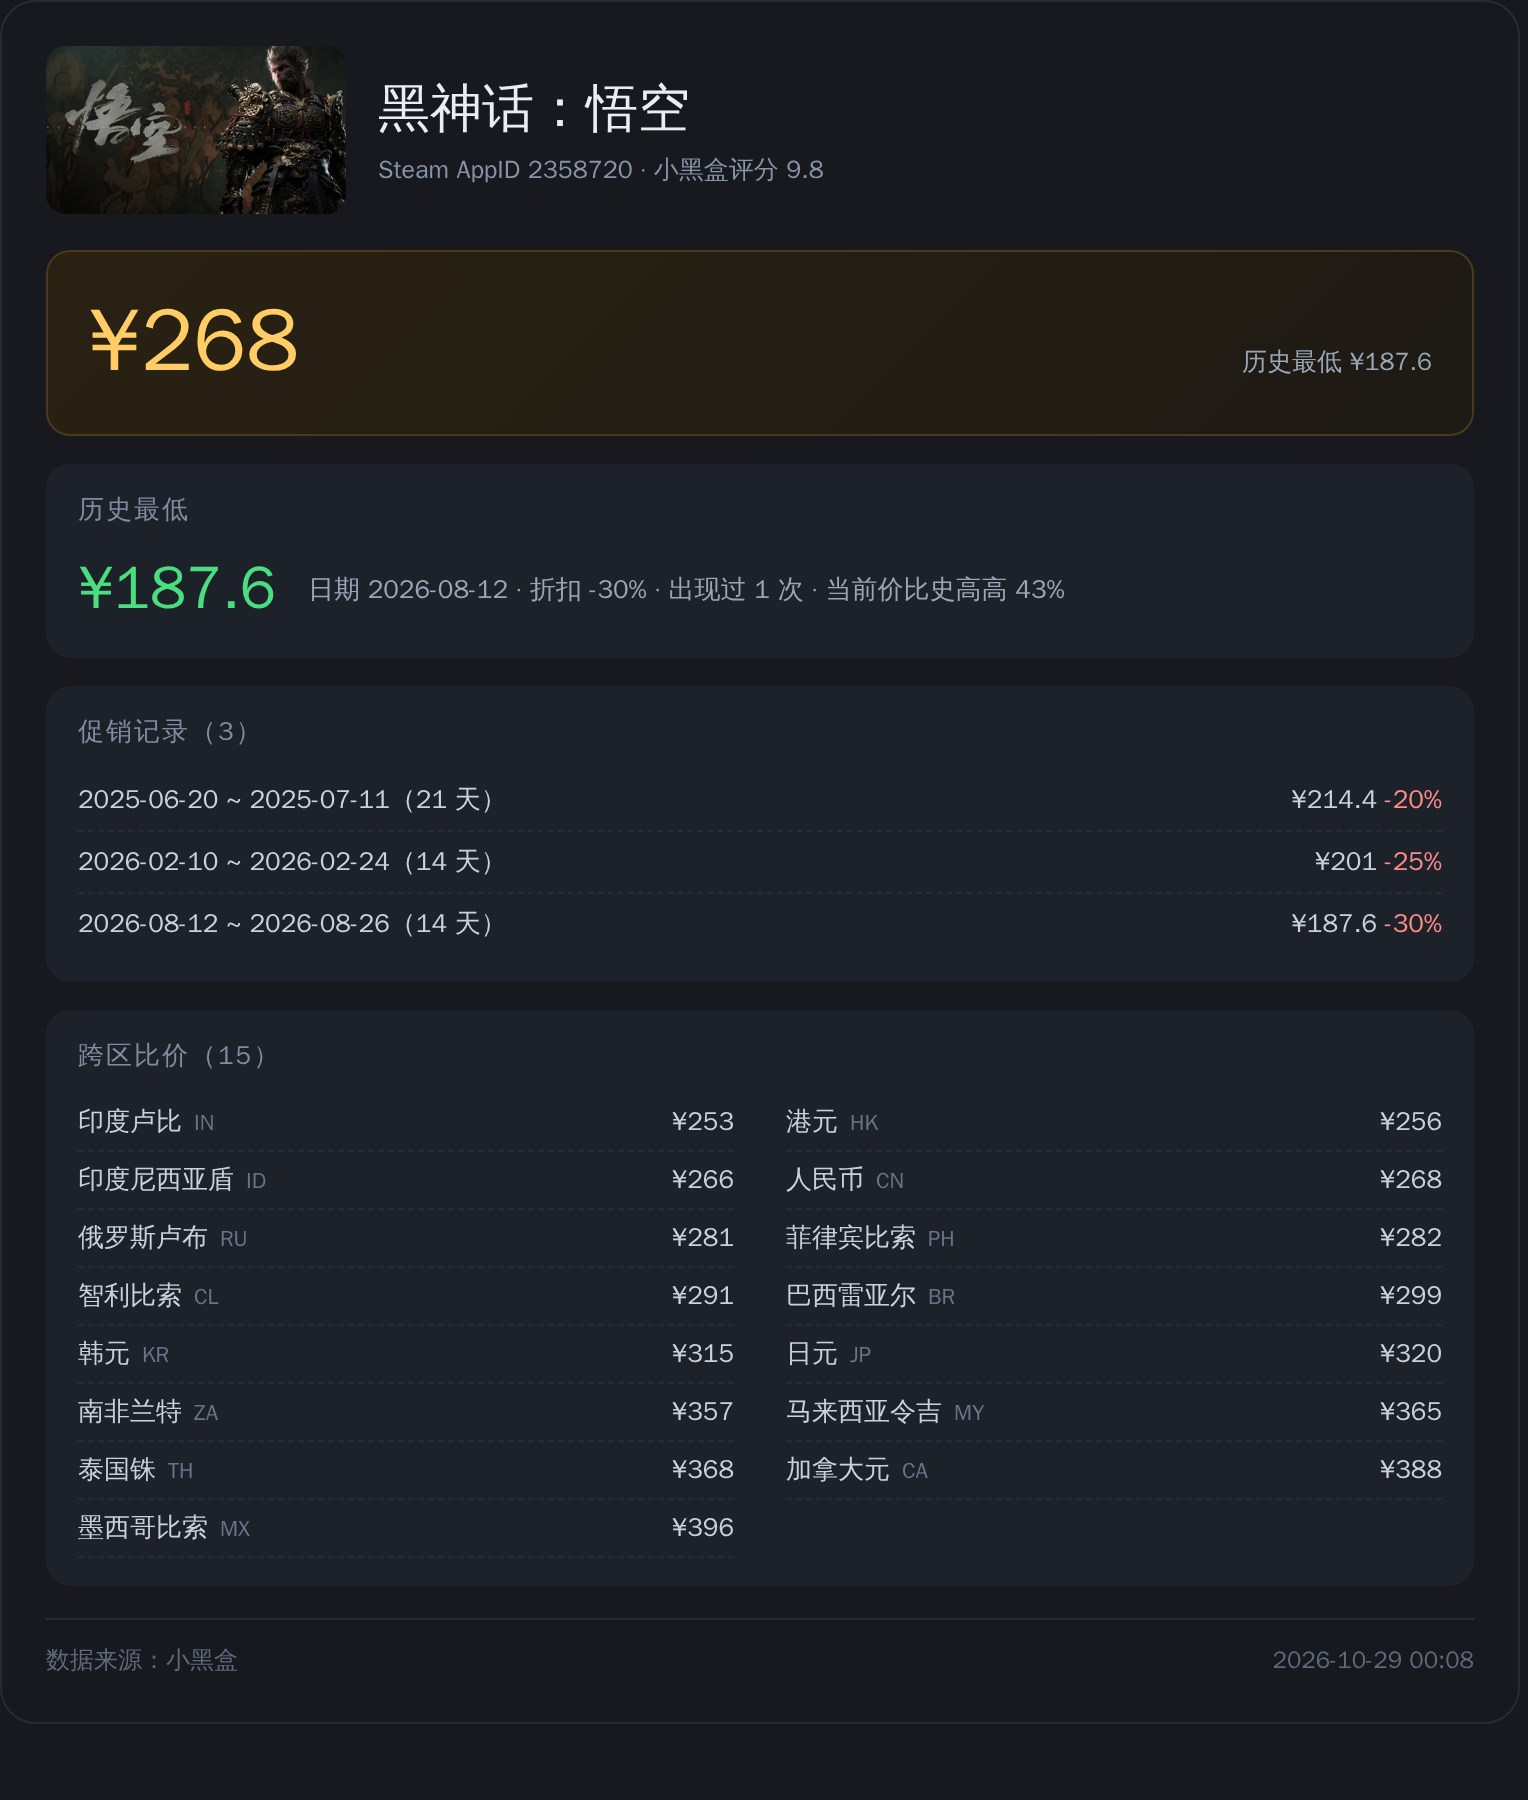
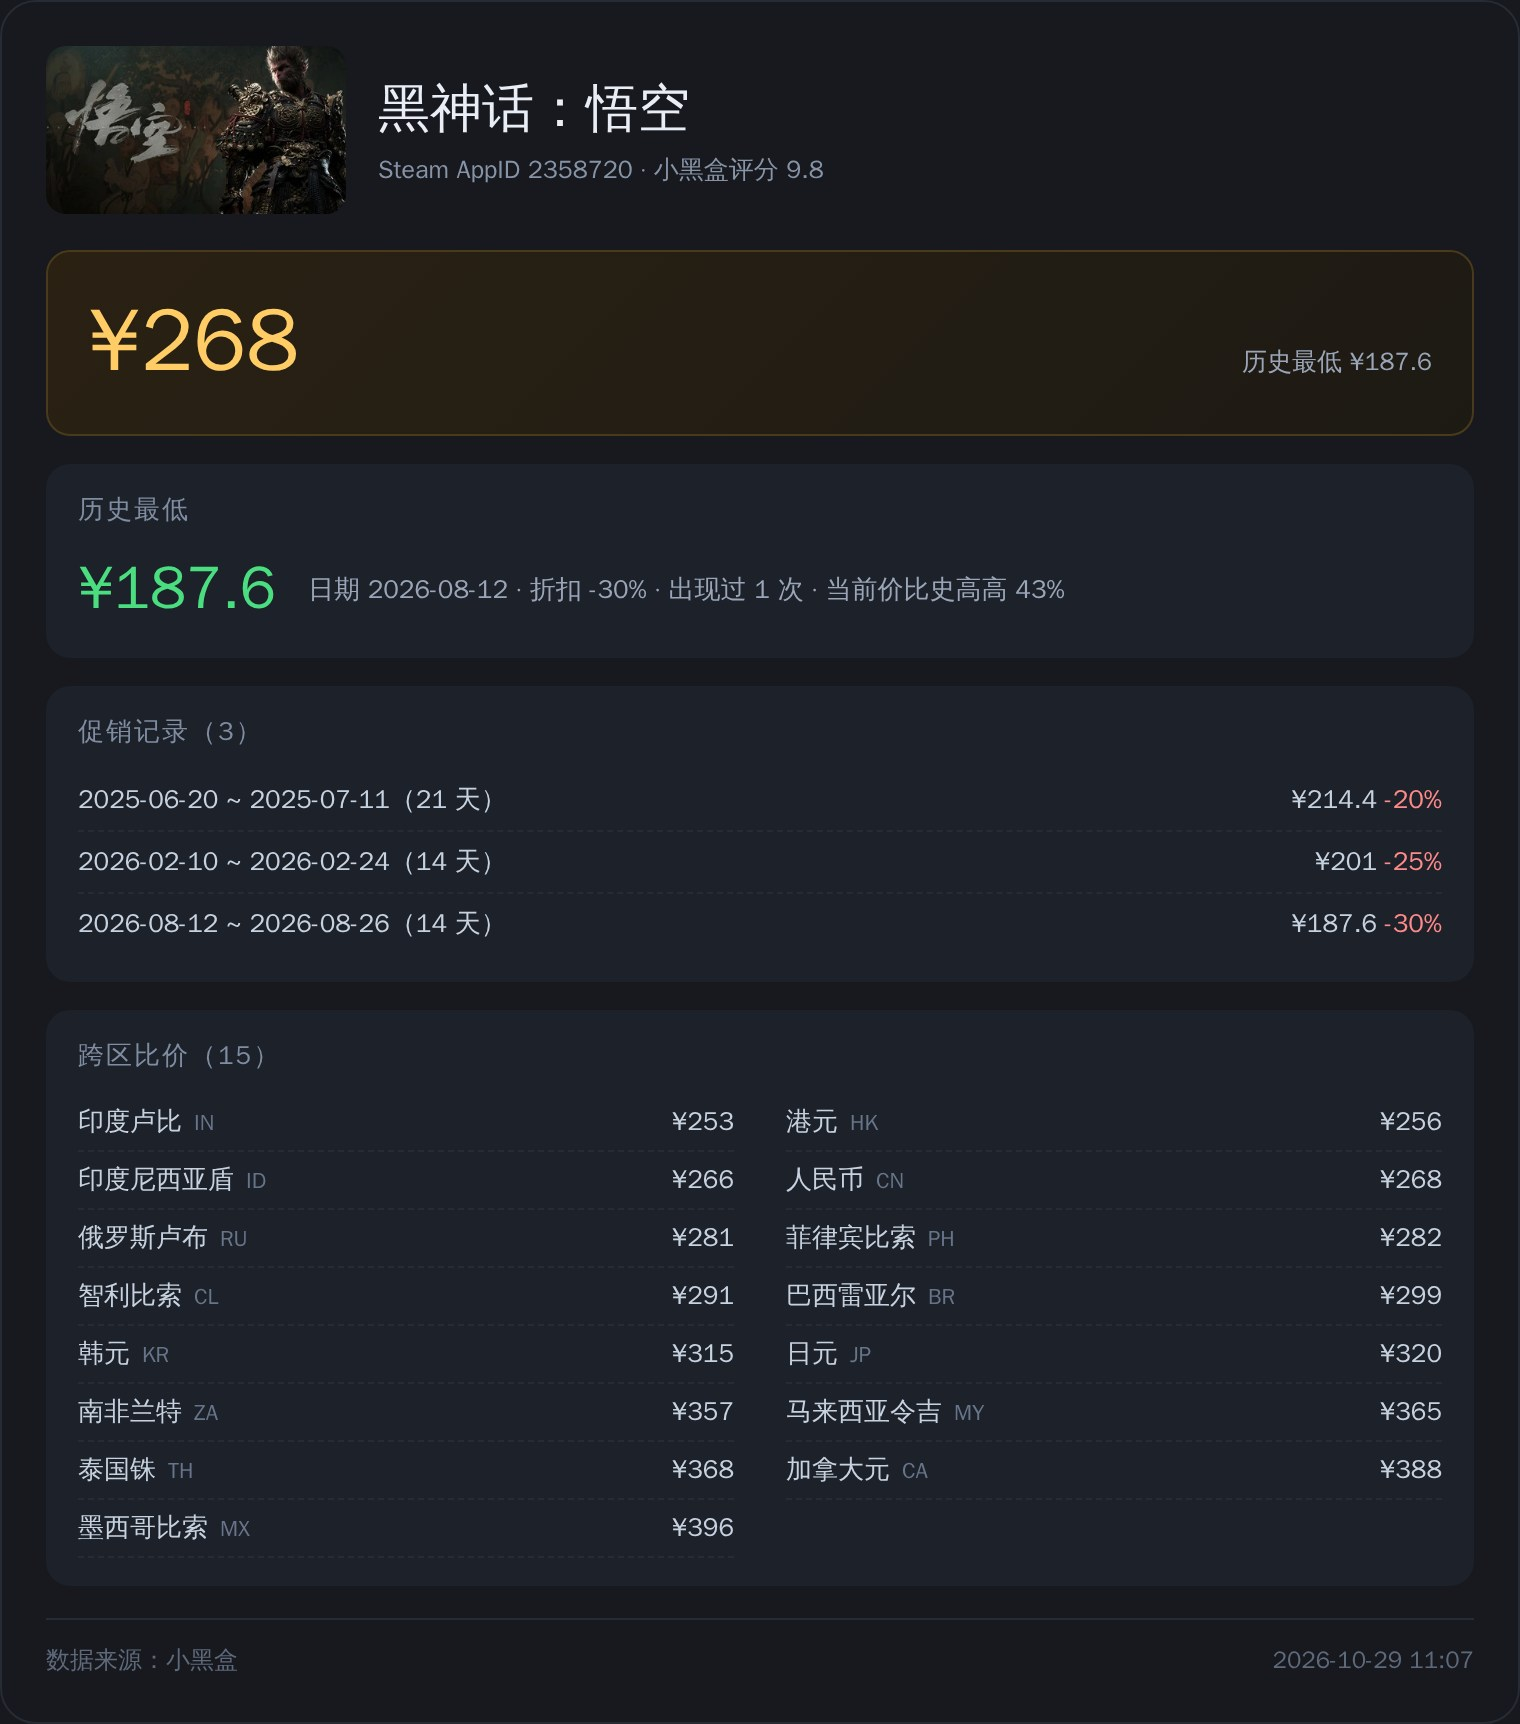
feat: ??/??????????????????

diff --git a/core/card.py b/core/card.py
@@ -262,61 +262,96 @@ def build_card(
 CSS = """
 * { margin:0; padding:0; box-sizing:border-box; }
 body { background:transparent; font-family:'WenQuanYi Zen Hei','Noto Sans CJK SC',sans-serif; }
-#card { width:760px; background:#17191e; color:#e9eef6; border-radius:18px; overflow:hidden;
-        border:1px solid #262b34; }
-.cover { width:100%; aspect-ratio:16/9; object-fit:cover; display:block; background:#0f1116; }
+#card { width:760px; background:$card_bg; color:$text; border-radius:18px; overflow:hidden;
+        border:1px solid $border; }
+.cover { width:100%; aspect-ratio:16/9; object-fit:cover; display:block; background:$img_bg; }
 .body { padding:20px 22px 18px; }
 .pricebar { display:flex; align-items:center; justify-content:space-between;
-            background:#22262e; border-radius:10px; padding:14px 18px; margin-bottom:16px; }
-.price-now { font-size:34px; font-weight:700; color:#fff; }
-.price-old { font-size:15px; color:#8a95a6; text-decoration:line-through; margin-left:12px; }
-.badge { font-size:14px; font-weight:700; color:#fff; background:#e5484d; padding:2px 8px;
+            background:$panel2; border-radius:10px; padding:14px 18px; margin-bottom:16px; }
+.price-now { font-size:34px; font-weight:700; color:$price_text; }
+.price-old { font-size:15px; color:$dim2; text-decoration:line-through; margin-left:12px; }
+.badge { font-size:14px; font-weight:700; color:$white; background:$red; padding:2px 8px;
          border-radius:6px; margin-left:10px; }
-.trend { font-size:13px; color:#9aa6b8; }
+.trend { font-size:13px; color:$muted2; }
 .title-row { display:flex; align-items:flex-start; justify-content:space-between; gap:16px; }
 .title { font-size:32px; font-weight:700; line-height:1.2; }
-.title-en { font-size:14px; color:#8794a8; margin-top:6px; }
-.scorebox { background:#f08a24; border-radius:10px; padding:8px 14px; text-align:center; flex:none; }
-.scorebox .s { font-size:26px; font-weight:700; color:#fff; line-height:1; }
-.scorebox .c { font-size:11px; color:#fff9; margin-top:4px; }
+.title-en { font-size:14px; color:$dim; margin-top:6px; }
+.scorebox { background:$orange; border-radius:10px; padding:8px 14px; text-align:center; flex:none; }
+.scorebox .s { font-size:26px; font-weight:700; color:$white; line-height:1; }
+.scorebox .c { font-size:11px; color:rgba(255,255,255,0.62); margin-top:4px; }
 .chips { display:flex; flex-wrap:wrap; gap:8px; margin-top:14px; }
-.chip { font-size:13px; color:#c8d3e2; background:#22262e; border:1px solid #2e3540;
+.chip { font-size:13px; color:$text3; background:$panel2; border:1px solid $chip_border;
         padding:5px 12px; border-radius:7px; }
-.chip.plat { color:#fff; background:#2a3340; }
+.chip.plat { color:$chip_plat_text; background:$chip_plat_bg; }
 .grid { display:grid; grid-template-columns:repeat(4,1fr); gap:10px; margin-top:16px; }
-.cell { background:#1d2129; border-radius:10px; padding:12px 10px; text-align:center; }
-.cell .v { font-size:19px; font-weight:700; color:#e9eef6; }
-.cell .l { font-size:12px; color:#7f8da2; margin-top:5px; }
-.meta { margin-top:14px; padding-top:12px; border-top:1px solid #262b34;
-         display:flex; flex-wrap:wrap; gap:6px 22px; font-size:12.5px; color:#9aa6b8; }
-.meta b { color:#dfe7f2; font-weight:600; }
+.cell { background:$panel; border-radius:10px; padding:12px 10px; text-align:center; }
+.cell .v { font-size:19px; font-weight:700; color:$text; }
+.cell .l { font-size:12px; color:$label; margin-top:5px; }
+.meta { margin-top:14px; padding-top:12px; border-top:1px solid $border;
+         display:flex; flex-wrap:wrap; gap:6px 22px; font-size:12.5px; color:$muted2; }
+.meta b { color:$text2; font-weight:600; }
 .pricegrid { display:grid; grid-template-columns:1.05fr 1.55fr 1.2fr; gap:10px; margin-top:14px; }
-.pcol { background:#1d2129; border-radius:10px; padding:12px 14px; }
-.pcol h3 { font-size:12px; color:#7f8da2; font-weight:600; margin-bottom:8px; letter-spacing:1px; }
-.pbig { font-size:24px; font-weight:700; color:#4ade80; line-height:1.1; }
-.pmeta { font-size:11.5px; color:#7f8da2; margin-top:4px; }
-.prow { display:flex; justify-content:space-between; font-size:12px; color:#b9c5d6; padding:3px 0; }
-.prow .dis { color:#ff8a8a; font-weight:600; }
-.req { margin-top:12px; background:#1d2129; border-radius:10px; padding:11px 16px 12px; }
-.req h4 { font-size:12px; color:#7f8da2; font-weight:600; margin-bottom:6px; letter-spacing:1px; }
+.pcol { background:$panel; border-radius:10px; padding:12px 14px; }
+.pcol h3 { font-size:12px; color:$label; font-weight:600; margin-bottom:8px; letter-spacing:1px; }
+.pbig { font-size:24px; font-weight:700; color:$green; line-height:1.1; }
+.pmeta { font-size:11.5px; color:$label; margin-top:4px; }
+.prow { display:flex; justify-content:space-between; font-size:12px; color:$text4; padding:3px 0; }
+.prow .dis { color:$red_soft; font-weight:600; }
+.req { margin-top:12px; background:$panel; border-radius:10px; padding:11px 16px 12px; }
+.req h4 { font-size:12px; color:$label; font-weight:600; margin-bottom:6px; letter-spacing:1px; }
 .req-cols { display:grid; grid-template-columns:1fr 1fr; gap:0 26px; }
-.req-col h5 { font-size:12.5px; color:#aab6c8; font-weight:700; margin:0 0 5px; }
+.req-col h5 { font-size:12.5px; color:$muted; font-weight:700; margin:0 0 5px; }
 .req-list { display:block; }
-.req-row { display:flex; gap:6px; font-size:12px; line-height:1.55; padding:2px 0; color:#b9c5d6; }
-.req-k { color:#7b8798; flex:none; min-width:52px; }
+.req-row { display:flex; gap:6px; font-size:12px; line-height:1.55; padding:2px 0; color:$text4; }
+.req-k { color:$label2; flex:none; min-width:52px; }
 .req-v { flex:1; }
-.req .none { color:#6d7889; font-size:13px; }
-.intro { margin-top:12px; font-size:13.5px; color:#b3bfd0; line-height:1.8; }
-.footer { display:flex; justify-content:space-between; font-size:12px; color:#5e6a7c;
-          margin-top:16px; padding-top:12px; border-top:1px solid #262b34; }
+.req .none { color:$faint; font-size:13px; }
+.intro { margin-top:12px; font-size:13.5px; color:$text4b; line-height:1.8; }
+.footer { display:flex; justify-content:space-between; font-size:12px; color:$faint3;
+          margin-top:16px; padding-top:12px; border-top:1px solid $border; }
 """
+
+
+from string import Template
+
+THEMES = {
+    "dark": {
+        "card_bg": "#17191e", "panel": "#1d2129", "panel2": "#22262e",
+        "border": "#262b34", "chip_border": "#2e3540", "chip_plat_bg": "#2a3340",
+        "text": "#e9eef6", "text2": "#dfe7f2", "text3": "#c8d3e2", "text3b": "#c7d2e0",
+        "text4": "#b9c5d6", "text4b": "#b3bfd0", "muted": "#aab6c8", "muted2": "#9aa6b8",
+        "dim": "#8794a8", "dim2": "#8a95a6", "label": "#7f8da2", "label2": "#7b8798",
+        "faint": "#6d7889", "faint2": "#67758a", "faint3": "#5e6a7c",
+        "price": "#ffcc66", "price_bg1": "#2a2113", "price_bg2": "#1d1a14",
+        "price_border": "#4a3a1c", "green": "#4ade80", "red": "#e5484d",
+        "red_soft": "#ff8a8a", "orange": "#f08a24", "img_bg": "#0f1116",
+        "white": "#fff", "price_text": "#ffffff", "chip_plat_text": "#ffffff",
+    },
+    "light": {
+        "card_bg": "#ffffff", "panel": "#f4f6f9", "panel2": "#eef1f5",
+        "border": "#e4e7ec", "chip_border": "#dde2e8", "chip_plat_bg": "#e8edf4",
+        "text": "#15181d", "text2": "#20242b", "text3": "#2f3540", "text3b": "#333a45",
+        "text4": "#3b4250", "text4b": "#404856", "muted": "#4b5361", "muted2": "#5b6472",
+        "dim": "#666e7c", "dim2": "#6b7381", "label": "#6b7280", "label2": "#707885",
+        "faint": "#8a92a0", "faint2": "#8d95a2", "faint3": "#9aa1ad",
+        "price": "#b45309", "price_text": "#8a4b08", "chip_plat_text": "#2f3540", "price_bg1": "#fff8e8", "price_bg2": "#fffdf6",
+        "price_border": "#f0dcb0", "green": "#15803d", "red": "#d92d20",
+        "red_soft": "#ef4444", "orange": "#ea7c1f", "img_bg": "#e9edf2",
+        "white": "#fff",
+    },
+}
+
+
+def theme_css(template: str, theme: str = "dark") -> str:
+    """把 CSS 里的 $token 换成对应主题的颜色。"""
+    return Template(template).substitute(**THEMES.get(theme, THEMES["dark"]))
 
 
 def _esc(value: Any) -> str:
     return html.escape(str(value or ""))
 
 
-def render_html(card: CardData) -> str:
+def render_html(card: CardData, theme: str = "dark") -> str:
     if card.is_free:
         price_html = '<span class="price-now">免费</span>'
     else:
@@ -408,7 +443,7 @@ def render_html(card: CardData) -> str:
     )
     cover_html = f'<img class="cover" src="{_esc(card.cover)}" />' if card.cover else ""
 
-    return f"""<!DOCTYPE html><html><head><meta charset="utf-8"><style>{CSS}</style></head>
+    return f"""<!DOCTYPE html><html><head><meta charset="utf-8"><style>{theme_css(CSS, theme)}</style></head>
 <body><div id="card">
   {cover_html}
   <div class="body">
@@ -431,39 +466,39 @@ def render_html(card: CardData) -> str:
 PRICE_CSS = """
 * { margin:0; padding:0; box-sizing:border-box; }
 body { background:transparent; font-family:'WenQuanYi Zen Hei','Noto Sans CJK SC',sans-serif; }
-#price-card { width:760px; background:#17191e; color:#e9eef6; border-radius:18px; overflow:hidden;
-              border:1px solid #262b34; padding:22px; }
+#price-card { width:760px; background:$card_bg; color:$text; border-radius:18px; overflow:hidden;
+              border:1px solid $border; padding:22px; }
 .head { display:flex; gap:16px; align-items:center; }
-.head img { width:150px; height:84px; object-fit:cover; border-radius:10px; background:#0f1116; }
+.head img { width:150px; height:84px; object-fit:cover; border-radius:10px; background:$img_bg; }
 .head .name { font-size:26px; font-weight:700; }
-.head .sub { font-size:12.5px; color:#8794a8; margin-top:5px; }
+.head .sub { font-size:12.5px; color:$dim; margin-top:5px; }
 .big { display:flex; align-items:baseline; gap:14px; margin-top:18px;
-       background:linear-gradient(135deg,#2a2113,#1d1a14); border:1px solid #4a3a1c;
+       background:linear-gradient(135deg,$price_bg1,$price_bg2); border:1px solid $price_border;
        border-radius:12px; padding:16px 20px; }
-.big .now { font-size:44px; font-weight:700; color:#ffcc66; }
-.big .old { font-size:17px; color:#8a95a6; text-decoration:line-through; }
-.big .off { font-size:15px; font-weight:700; color:#fff; background:#e5484d; padding:3px 10px; border-radius:7px; }
-.big .tag { font-size:12.5px; color:#9aa6b8; margin-left:auto; }
-.section { margin-top:14px; background:#1d2129; border-radius:12px; padding:14px 16px; }
-.section h3 { font-size:13px; color:#7f8da2; font-weight:600; margin-bottom:10px; letter-spacing:1px; }
+.big .now { font-size:44px; font-weight:700; color:$price; }
+.big .old { font-size:17px; color:$dim2; text-decoration:line-through; }
+.big .off { font-size:15px; font-weight:700; color:$white; background:$red; padding:3px 10px; border-radius:7px; }
+.big .tag { font-size:12.5px; color:$muted2; margin-left:auto; }
+.section { margin-top:14px; background:$panel; border-radius:12px; padding:14px 16px; }
+.section h3 { font-size:13px; color:$label; font-weight:600; margin-bottom:10px; letter-spacing:1px; }
 .lowrow { display:flex; align-items:center; gap:16px; }
-.lowrow .p { font-size:30px; font-weight:700; color:#4ade80; }
-.lowrow .m { font-size:13px; color:#9aa6b8; line-height:1.8; }
-.sale { display:flex; justify-content:space-between; font-size:13px; color:#c7d2e0;
-        padding:6px 0; border-bottom:1px dashed #262b34; }
+.lowrow .p { font-size:30px; font-weight:700; color:$green; }
+.lowrow .m { font-size:13px; color:$muted2; line-height:1.8; }
+.sale { display:flex; justify-content:space-between; font-size:13px; color:$text3b;
+        padding:6px 0; border-bottom:1px dashed $border; }
 .sale:last-child { border-bottom:none; }
-.sale .d { color:#ff8a8a; font-weight:600; }
-.empty { font-size:13px; color:#6d7889; }
+.sale .d { color:$red_soft; font-weight:600; }
+.empty { font-size:13px; color:$faint; }
 .regions { display:grid; grid-template-columns:1fr 1fr; gap:0 26px; }
 .reg { display:flex; justify-content:space-between; font-size:13px; padding:5px 0;
-       border-bottom:1px dashed #262b34; color:#c7d2e0; }
-.reg .cc { color:#67758a; font-size:11px; margin-left:6px; }
-.footer { display:flex; justify-content:space-between; font-size:12px; color:#5e6a7c;
-          margin-top:16px; padding-top:12px; border-top:1px solid #262b34; }
+       border-bottom:1px dashed $border; color:$text3b; }
+.reg .cc { color:$faint2; font-size:11px; margin-left:6px; }
+.footer { display:flex; justify-content:space-between; font-size:12px; color:$faint3;
+          margin-top:16px; padding-top:12px; border-top:1px solid $border; }
 """
 
 
-def render_price_html(card: CardData) -> str:
+def render_price_html(card: CardData, theme: str = "dark") -> str:
     """独立的详细价格卡片。"""
     if card.is_free:
         price_html = '<span class="now">免费</span>'
@@ -508,7 +543,7 @@ def render_price_html(card: CardData) -> str:
     ) or '<div class="empty">暂无跨区数据</div>'
 
     cover = f'<img src="{_esc(card.cover)}" />' if card.cover else ""
-    return f"""<!DOCTYPE html><html><head><meta charset="utf-8"><style>{PRICE_CSS}</style></head>
+    return f"""<!DOCTYPE html><html><head><meta charset="utf-8"><style>{theme_css(PRICE_CSS, theme)}</style></head>
 <body><div id="price-card">
   <div class="head">{cover}
     <div><div class="name">{_esc(card.name)}</div>

diff --git a/core/render.py b/core/render.py
@@ -9,6 +9,25 @@ class RenderError(RuntimeError):
     pass
 
 
+def _trim_transparent(path: str) -> None:
+    """裁掉透明留白：元素截图偶尔会带出视口大小的空白区。"""
+    try:
+        from PIL import Image
+    except ImportError:
+        return
+    try:
+        with Image.open(path) as im:
+            if im.mode != "RGBA":
+                return
+            bbox = im.getchannel("A").getbbox()
+            if not bbox:
+                return
+            if bbox != (0, 0, im.width, im.height):
+                im.crop(bbox).save(path)
+    except Exception:  # noqa: BLE001
+        pass
+
+
 async def render_png(html: str, width: int = 760, scale: float = 2.0, timeout_ms: int = 30000) -> str:
     try:
         from playwright.async_api import async_playwright
@@ -37,7 +56,7 @@ async def render_png(html: str, width: int = 760, scale: float = 2.0, timeout_ms
                 await page.set_content(html, wait_until="load", timeout=timeout_ms)
                 # 等封面图、字体就位
                 await page.wait_for_timeout(1200)
-                card = await page.query_selector("#card")
+                card = await page.query_selector("#card, #price-card")
                 if card is not None:
                     # omit_background=True 保留圆角透明，输出带 alpha 的 PNG
                     await card.screenshot(path=path, omit_background=True)
@@ -45,6 +64,7 @@ async def render_png(html: str, width: int = 760, scale: float = 2.0, timeout_ms
                     await page.screenshot(path=path, full_page=True, omit_background=True)
             finally:
                 await browser.close()
+        _trim_transparent(path)
     except RenderError:
         raise
     except Exception as exc:  # noqa: BLE001

diff --git a/main.py b/main.py
@@ -182,7 +182,7 @@ class HeyboxGamePlugin(Star):
                 int(self._cfg("intro_length", 220)),
                 str(self._cfg("req_mode", "compact")),
             )
-            html = render_html(card)
+            html = render_html(card, str(self._cfg("theme", "dark")))
             png = await render_png(html, int(self._cfg("render_width", 760)), float(self._cfg("render_scale", 2.0)))
             cache_dir = self.data_dir / "cache"
             cache_dir.mkdir(parents=True, exist_ok=True)
@@ -254,7 +254,7 @@ class HeyboxGamePlugin(Star):
                 "off",
                 int(self._cfg("price_sales_limit", 8)),
             )
-            html = render_price_html(card)
+            html = render_price_html(card, str(self._cfg("theme", "dark")))
             png = await render_png(html, int(self._cfg("render_width", 760)), float(self._cfg("render_scale", 2.0)))
             cache_dir = self.data_dir / "cache"
             cache_dir.mkdir(parents=True, exist_ok=True)

diff --git a/README.md b/README.md
@@ -60,6 +60,7 @@ python -m playwright install chromium
 
 | 字段 | 类型 | 默认 | 说明 |
 | --- | --- | --- | --- |
+| `theme` | select | dark | dark-暗色；light-亮色 |
 | `cookies` | text | 空 | `user_pkey=xxx; heybox_id=123`，留空则用扫码登录保存的凭证 |
 | `show_requirements` | bool | true | 显示配置要求（来自小黑盒硬件配置接口） |
 | `steam_requirements` | bool | false | 小黑盒拿不到时是否用 Steam 兜底（需代理，可选） |
